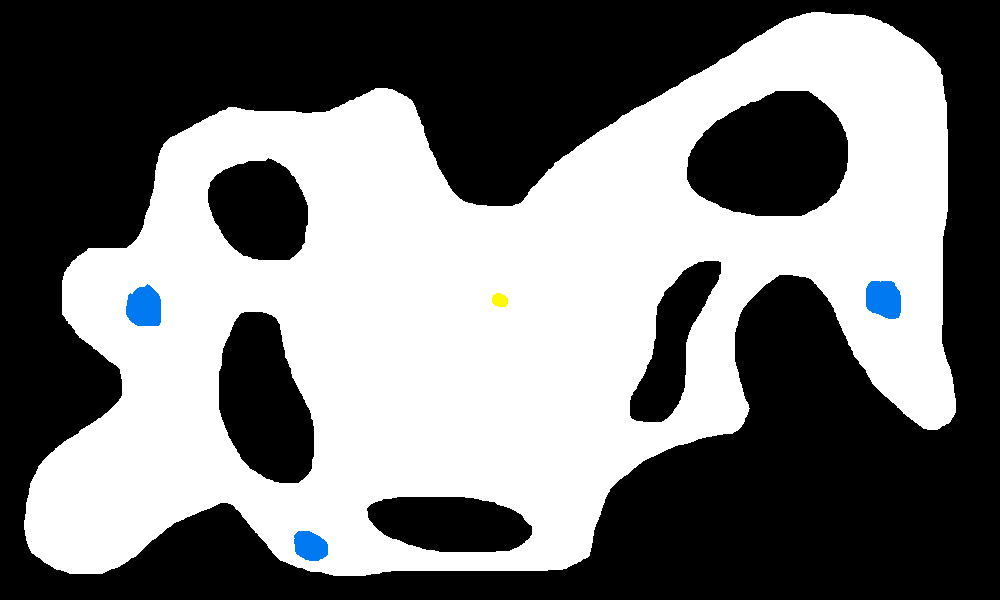
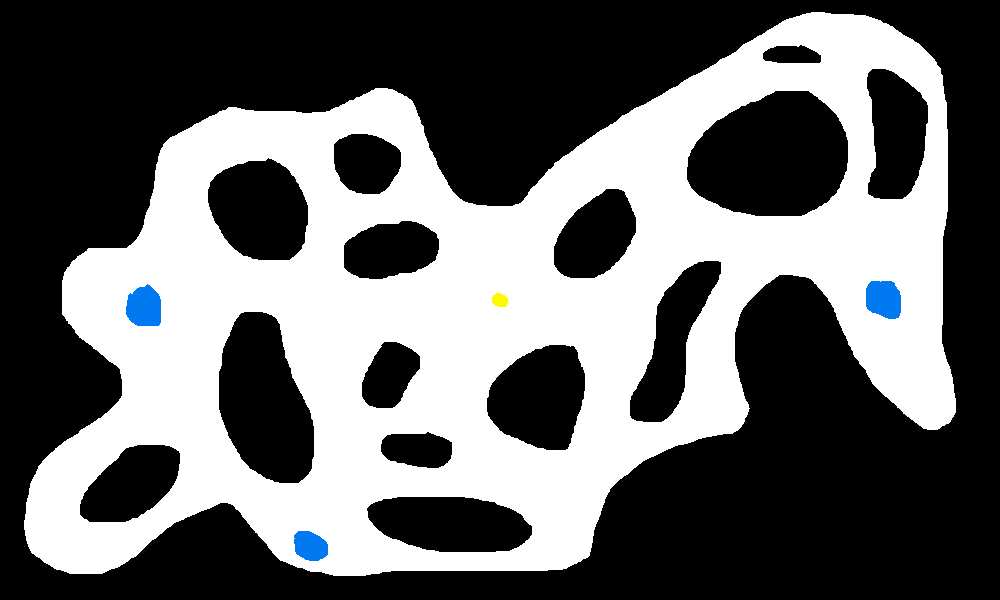
ANDA. Mejoras de colores

diff --git a/ant.cpp b/ant.cpp
@@ -46,6 +46,14 @@ void ant::update(float timeStep, Image &map, std::vector<pheromones> &pheromoneM
 	{
 		velocity = -velocity;
 	}
+	else if (colision == 8)
+	{
+		velocity = velocity;
+	}
+	else if (colision == 9)
+	{
+		velocity = velocity;
+	}
 	else		//no detecte nada de terreno o comida
 	{			
 		//checkeo feromonas
@@ -53,7 +61,7 @@ void ant::update(float timeStep, Image &map, std::vector<pheromones> &pheromoneM
 		{
 			neurone[0] = getScoreArroundPoint(pheromoneMap, position - (raylib::Vector2)Vector2Rotate(velocity, -NEURON_ANGLE) * NEURON_RANGE, 0);
 			neurone[1] = getScoreArroundPoint(pheromoneMap, position + velocity * NEURON_RANGE, 0);
-			neurone[2] = getScoreArroundPoint(pheromoneMap, position - (raylib::Vector2)Vector2Rotate(velocity, 0) * NEURON_RANGE, 0);
+			neurone[2] = getScoreArroundPoint(pheromoneMap, position - (raylib::Vector2)Vector2Rotate(velocity, NEURON_ANGLE) * NEURON_RANGE, 0);
 		}
 		else
 		{
@@ -124,13 +132,15 @@ void ant::update(float timeStep, Image &map, std::vector<pheromones> &pheromoneM
 int ant::checkColision(Image& map, float timeStep)
 {
 	raylib::Vector2 futurePositionFoward = position + velocity * timeStep;
-	raylib::Vector2 morefuturePositionFoward = position + velocity * timeStep*2;
+	raylib::Vector2 morefuturePositionFoward = position + velocity * timeStep*20;
+	raylib::Vector2 littlefuturePositionFoward = position + velocity * timeStep * 5;
 	//raylib::Vector2 futurePositionLeft = position - Vector2Rotate(velocity * timeStep,-NEURON_ANGLE) ;
 	//raylib::Vector2 futurePositionRight = position - Vector2Rotate(velocity * timeStep, NEURON_ANGLE);
 
 
 	raylib::Color pixelFoward = GetImageColor(map, (int)futurePositionFoward.x, (int)futurePositionFoward.y);
 	raylib::Color pixelMoreFoward = GetImageColor(map, (int)morefuturePositionFoward.x, (int)morefuturePositionFoward.y);
+	raylib::Color pixelLittleFoward = GetImageColor(map, (int)littlefuturePositionFoward.x, (int)littlefuturePositionFoward.y);
 	//raylib::Color pixelLeft = GetImageColor(map, (int)futurePositionLeft.x, (int)futurePositionLeft.y);
 	//raylib::Color pixelRight = GetImageColor(map, (int)futurePositionRight.x, (int)futurePositionRight.y);
 
@@ -138,7 +148,7 @@ int ant::checkColision(Image& map, float timeStep)
 	raylib::Color pixelFood = BLUE;
 	raylib::Color pixelHome = YELLOW;
 
-	if ((pixelMoreFoward==pixelWall) || (pixelFoward == pixelWall) || (pixelFoward == pixelFood) || (pixelFoward == pixelHome))
+	if ((pixelLittleFoward == pixelWall)||(pixelFoward == pixelWall) || (pixelFoward == pixelFood) || (pixelFoward == pixelHome))
 	{
 		if (pixelFoward == pixelFood)		
 		{
@@ -170,8 +180,21 @@ int ant::checkColision(Image& map, float timeStep)
 			}
 		}
 		else
-			return 1;		//detecto pared o comida o casa 
-							//PUEDO AGREGAR: Que gire al lado opuesto si ve pared de un lado
+		{
+			/*foodPheromonePower = 0;
+			homePheromonePower = 0;*/
+			return 1;										//detecto pared 
+							
+		}
+			
+	}
+	else if ((pixelMoreFoward == pixelFood)&&!hasFood)	//comida bastante mas adelante
+	{
+		return 8;
+	}
+	else if ((pixelMoreFoward == pixelHome)&&hasFood)	//casa bastante mas adelante
+	{
+		return 9;
 	}
 	
 	return 3;
@@ -244,7 +267,8 @@ unsigned int ant::getScoreArroundPoint(std::vector<pheromones> &pheromoneMap, ra
 		newScore = scoreFood - scoreHome;
 	}
 	//return score;
-	//return (newScore > 0 ? newScore : 0);
-	return (pheromoneType ? scoreFood : scoreHome);
+	//newScore = (newScore > 0 ? newScore : 0);
+	//return newScore;
+	return (pheromoneType == 1 ? scoreFood : scoreHome);
 }
 

diff --git a/main.cpp b/main.cpp
@@ -18,9 +18,9 @@
 
 
 #define TIME_STEP 1.0f
-#define ANT_AMOUNT 5000                                         //cantidad de hormigas
+#define ANT_AMOUNT 10000                                        //cantidad de hormigas
 #define ANT_INITIAL_POSITION { screenWidth/2, screenHeight/2 }  //posicion inical de hormigas
-#define DIFUSION_TIMER 0                                        //cada cuantos ciclos reduzco en 1 el nivel de feromonas
+#define DIFUSION_TIMER 1                                        //cada cuantos ciclos reduzco en 1 el nivel de feromonas
                                                                 //si es 0, lo reduzco cada ciclo
 using namespace std;
 
@@ -49,7 +49,7 @@ int main()
     }
 
     raylib::Color terrainColor = BLACK;
-    Image map = LoadImage("C:/Users/USUARIO/Desktop/ITBA/Algoritmos y estructuras de datos/Ant Simulation/resources/map1.png");
+    Image map = LoadImage("C:/Users/USUARIO/Desktop/ITBA/Algoritmos y estructuras de datos/Ant Simulation/resources/map5.png");
 
     Texture2D mapTexture = LoadTextureFromImage(map);    
 
@@ -112,9 +112,17 @@ int main()
             for (auto& i : pheromoneMap)
             {
                 if (i.food > 0)
-                    i.food -= 1;
+                {
+                    //i.food -= 1;
+                    i.food = i.food * 0.99;
+                }
+                    
                 if (i.home > 0)
-                    i.home -= 1;
+                {
+                    //i.home -= 1;
+                    i.home = i.home * 0.99;
+                }
+                    
             }
             pheromoneTimer = 0;
         }
@@ -138,20 +146,20 @@ int main()
         //    else if(i.homePheromonePower>10)
         //        DrawPixelV(i.position, RED);
         //}
-       
+        BeginBlendMode(BLEND_MULTIPLIED);
         for(int x=0;x<1000;x++)             //esto anda bien
             for (int y = 0; y < 600; y++)
             {
                 if (pheromoneMap[y * 1000 + x].home >0 )
-                    DrawPixel(x, y, ColorAlpha(PURPLE,float(pheromoneMap[y * 1000 + x].home)));
+                    DrawPixel(x, y, ColorAlpha(YELLOW,0.8f));
             }
         for (int x = 0; x < 1000; x++)
             for (int y = 0; y < 600; y++)
             {
                 if (pheromoneMap[y * 1000 + x].food > 0)
-                    DrawPixel(x, y, ColorAlpha(BLUE, pheromoneMap[y * 1000 + x].food));
+                    DrawPixel(x, y, ColorAlpha(BLUE, 0.5f));
             }
-
+        EndBlendMode();
 
         EndTextureMode();
 

diff --git a/ant.h b/ant.h
@@ -7,23 +7,23 @@
 #include <vector>
 
 #define NEURON_ANGLE 15					//configuracion de neurona de feromonas. Estos valores andan bien
-#define NEURON_RANGE 8
+#define NEURON_RANGE 10
 #define SENSOR_SIZE 3
-#define PHEROMONE_RESPONSE_STRENGTH 1.5
+#define PHEROMONE_RESPONSE_STRENGTH 2
 
-#define WANDERING_STRENGT 0.003				//que tanto la hormiga se desvia. Valor mas grande = se desvia mas
+#define WANDERING_STRENGT 0.007				//que tanto la hormiga se desvia. Valor mas grande = se desvia mas
 
-#define PHEROMONE_FOOD_MIN 50				//minimo nivel de feromona que deja una hormiga
-#define PHEROMONE_HOME_MIN 0
+#define PHEROMONE_FOOD_MIN 10				//minimo nivel de feromona que deja una hormiga
+#define PHEROMONE_HOME_MIN 10
 
-#define PHEROMONE_HOME_MAX 5000				//maximo valor de una feromona en un punto
-#define PHEROMONE_FOOD_MAX 5000
+#define PHEROMONE_HOME_MAX 4000				//maximo valor de una feromona en un punto
+#define PHEROMONE_FOOD_MAX 4000
 
-#define PHEROMONE_FOOD_MULTIPLICATOR 0.6	//escala el nivel de feromona que una hormiga sube en el campo de feromonas
-#define PHEROMONE_HOME_MULTIPLICATOR 0.5
+#define PHEROMONE_FOOD_MULTIPLICATOR 1	//escala el nivel de feromona que una hormiga sube en el campo de feromonas
+#define PHEROMONE_HOME_MULTIPLICATOR 1
 
 #define PHEROMONE_HOME_RECHARGE 300			//recarga de feromona cuando una hormiga encuentra comida o casa
-#define PHEROMONE_FOOD_RECHARGE 300
+#define PHEROMONE_FOOD_RECHARGE 400
 
 
 
